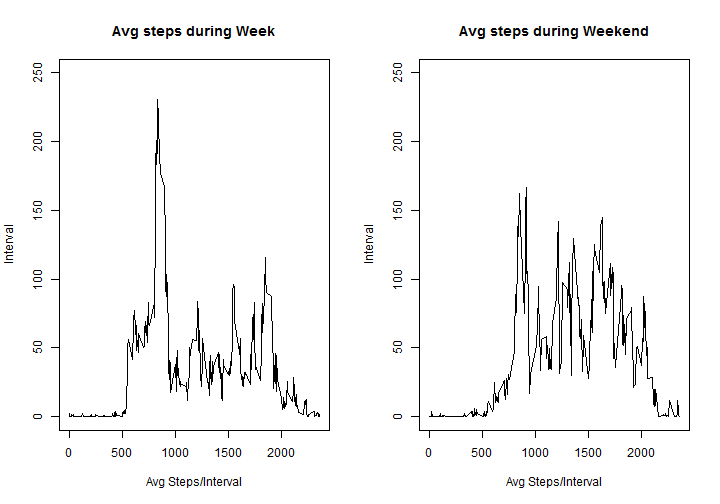
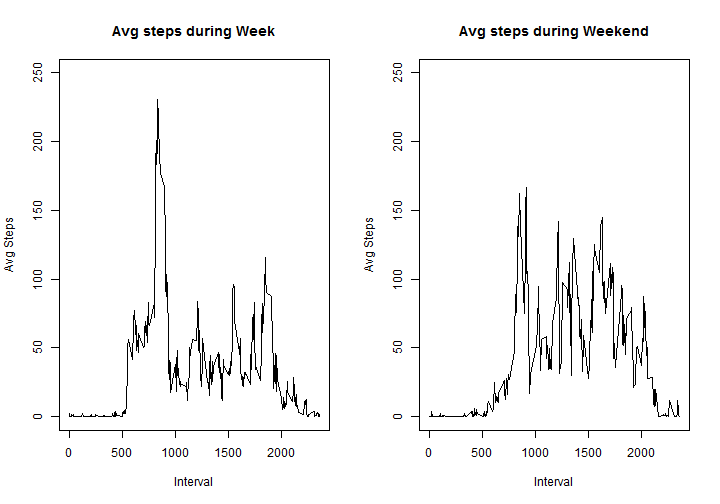
Fixed the lables on the graphs

diff --git a/PA1_template.html b/PA1_template.html
@@ -236,10 +236,12 @@ hljs.initHighlightingOnLoad();
 
 <p>Now I can draw a Line plot showing the average steps taken on each interval.</p>
 
-<pre><code class="r">plot(x=avgint$Group.1,y=avgint$x,type=&quot;l&quot;,xlab=&quot;Avg Steps/Interval&quot;,ylab=&quot;Interval&quot;, main=&quot;Average steps taken for each interval period&quot;)
+<pre><code class="r">plot(x=avgint$Group.1,y=avgint$x,type=&quot;l&quot;,
+     xlab=&quot;Interval&quot;,ylab=&quot;Avg Steps&quot;, 
+     main=&quot;Average steps taken for each interval period&quot;)
 </code></pre>
 
[2 lines of base64/hex data omitted]
 
 <p>The interval with the max average steps taken is:</p>
 
@@ -330,18 +332,18 @@ par(mfrow=c(1,2))
 plot(nAvgint$Interval[nAvgint$WeekDays==&quot;Week&quot;],
      nAvgint$x[nAvgint$WeekDays==&quot;Week&quot;],
      type=&quot;l&quot;,
-     xlab=&quot;Avg Steps/Interval&quot;,ylab=&quot;Interval&quot;, 
+     xlab=&quot;Interval&quot;,ylab=&quot;Avg Steps&quot;, 
      main=&quot;Avg steps during Week&quot;,ylim=c(0,250)
      )
 plot(nAvgint$Interval[nAvgint$WeekDays==&quot;Weekend&quot;],
      nAvgint$x[nAvgint$WeekDays==&quot;Weekend&quot;],
      type=&quot;l&quot;,
-     xlab=&quot;Avg Steps/Interval&quot;,ylab=&quot;Interval&quot;, 
+     xlab=&quot;Interval&quot;,ylab=&quot;Avg Steps&quot;, 
      main=&quot;Avg steps during Weekend&quot;,ylim=c(0,250)
      )
 </code></pre>
 
[2 lines of base64/hex data omitted]
 
 </body>
 

diff --git a/PA1_template.md b/PA1_template.md
@@ -75,7 +75,9 @@ Now I can draw a Line plot showing the average steps taken on each interval.
 
 
 ```r
-plot(x=avgint$Group.1,y=avgint$x,type="l",xlab="Avg Steps/Interval",ylab="Interval", main="Average steps taken for each interval period")
+plot(x=avgint$Group.1,y=avgint$x,type="l",
+     xlab="Interval",ylab="Avg Steps", 
+     main="Average steps taken for each interval period")
 ```
 
 ![plot of chunk unnamed-chunk-7](figure/unnamed-chunk-7.png) 
@@ -187,13 +189,13 @@ par(mfrow=c(1,2))
 plot(nAvgint$Interval[nAvgint$WeekDays=="Week"],
      nAvgint$x[nAvgint$WeekDays=="Week"],
      type="l",
-     xlab="Avg Steps/Interval",ylab="Interval", 
+     xlab="Interval",ylab="Avg Steps", 
      main="Avg steps during Week",ylim=c(0,250)
      )
 plot(nAvgint$Interval[nAvgint$WeekDays=="Weekend"],
      nAvgint$x[nAvgint$WeekDays=="Weekend"],
      type="l",
-     xlab="Avg Steps/Interval",ylab="Interval", 
+     xlab="Interval",ylab="Avg Steps", 
      main="Avg steps during Weekend",ylim=c(0,250)
      )
 ```
